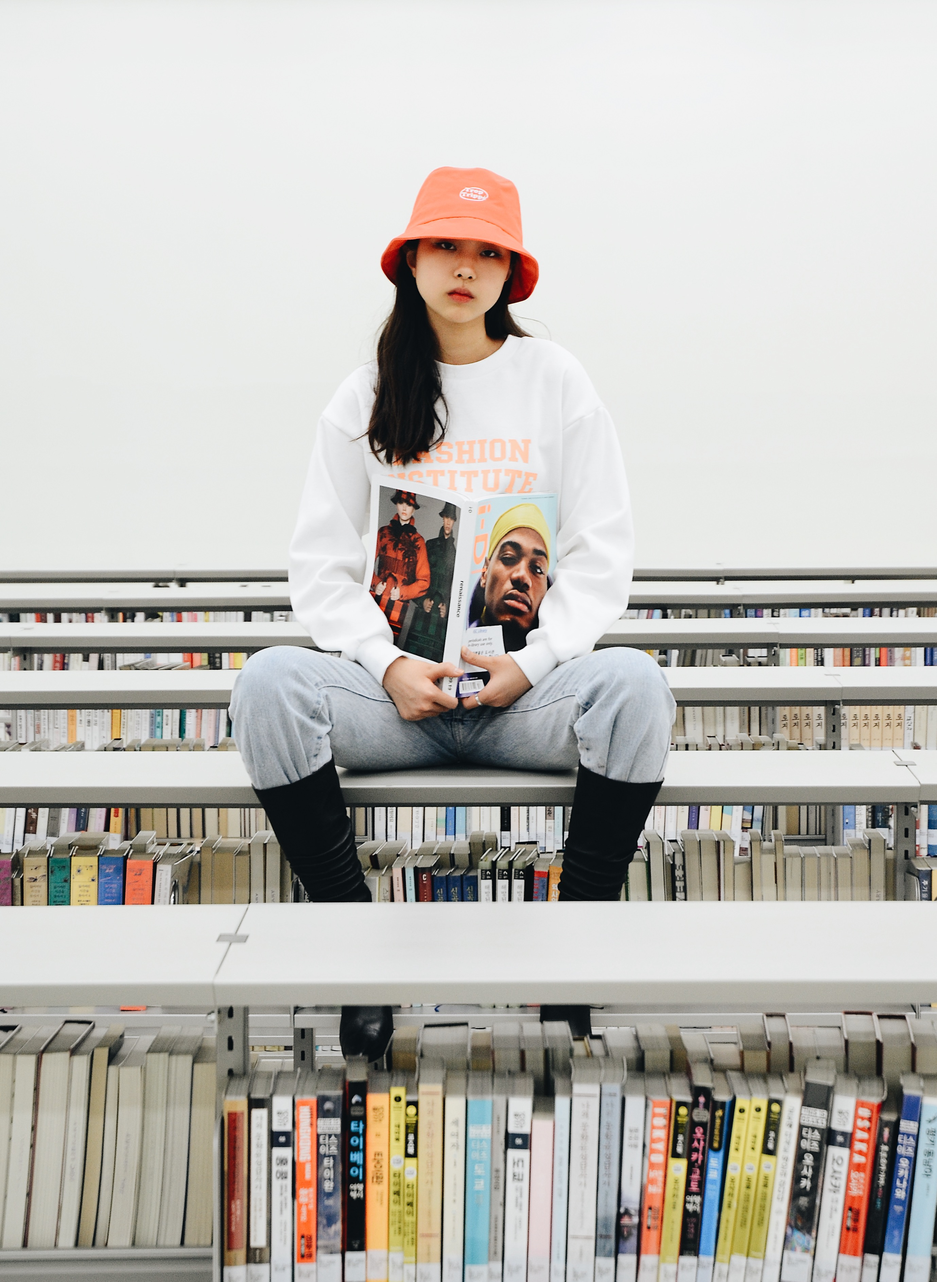
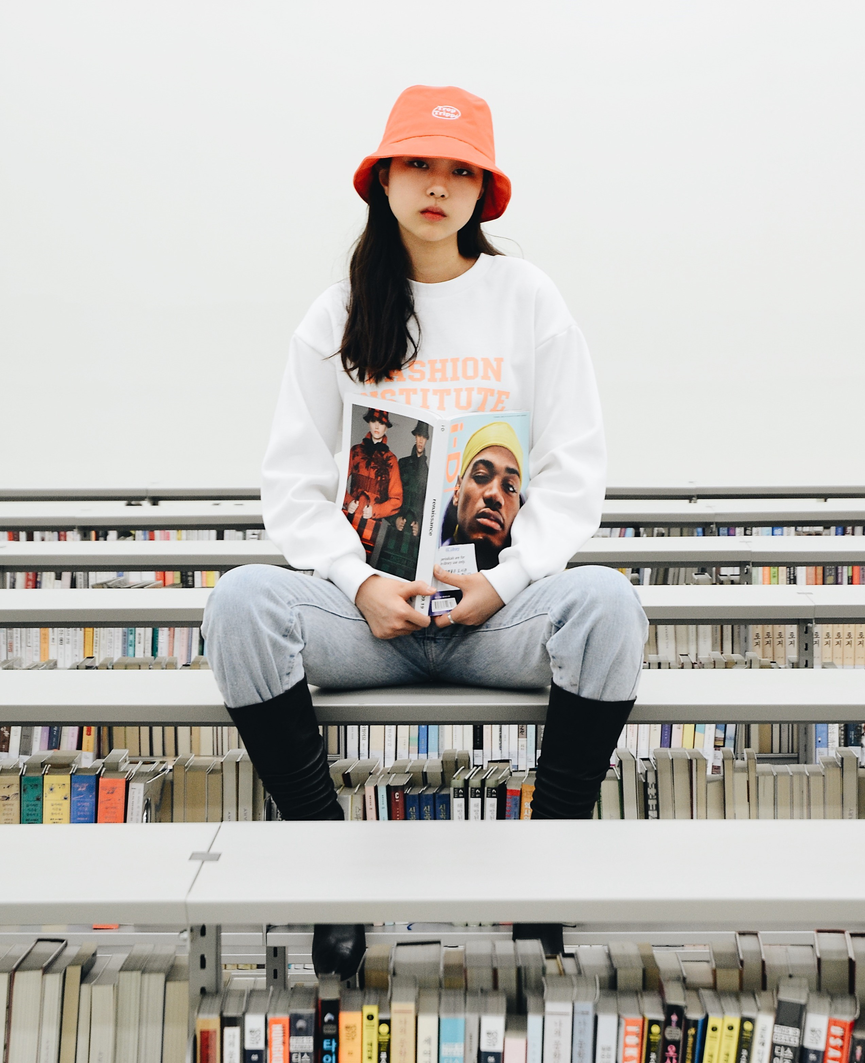
hero

diff --git a/frontend/src/App.js b/frontend/src/App.js
@@ -8,29 +8,28 @@ import AboutUs from "./components/pages/AboutUs/AboutUs";
 import Navbar from "./components/Navbar";
 import Footer from "./components/pages/Footer.js/Footer";
 
-import { AnimatePresence, motion } from "framer-motion"
- 
+import { AnimatePresence, motion } from "framer-motion";
+
 // import counterpart from 'counterpart';
 // import Translate from 'react-traslate-component';
 
 // counterpart.registerTranslations('en',{
 
 // })
-//https://www.youtube.com/watch?v=PM3SrgdYvrw&ab_channel=Chigabiga 
+//https://www.youtube.com/watch?v=PM3SrgdYvrw&ab_channel=Chigabiga
 // Translation Tutorial
-
 
 function App() {
   return (
     <Router>
       <Navbar />
       <AnimatePresence>
-      <Switch>
-        <Route path="/" exact component={Home} />
-        <Route path="/collections" component={Collections} />
-        <Route path="/aboutus" component={AboutUs} />
-        <Route path="/ourteam" component={OurTeam} />
-      </Switch>
+        <Switch>
+          <Route path="/" exact component={Home} />
+          <Route path="/collections" component={Collections} />
+          <Route path="/aboutus" component={AboutUs} />
+          <Route path="/ourteam" component={OurTeam} />
+        </Switch>
       </AnimatePresence>
 
       <Footer />

diff --git a/frontend/src/components/pages/AboutUs/AboutUs.js b/frontend/src/components/pages/AboutUs/AboutUs.js
@@ -1,7 +1,5 @@
 import React from "react";
 import HeroSection from "../../HeroSection";
-import about_us from "../../../images/aboutus.jpg";
-
 import { aboutUs, virtualStore } from "./Data";
 import { AnimatePresence, motion } from "framer-motion";
 

diff --git a/frontend/src/components/HeroSection.css b/frontend/src/components/HeroSection.css
@@ -1,6 +1,7 @@
 .home__hero-section {
   color: #fff;
-  padding: 22% 0;
+  padding-top: 150px;
+  padding-bottom: 370px;
 }
 
 .home__hero-row {
